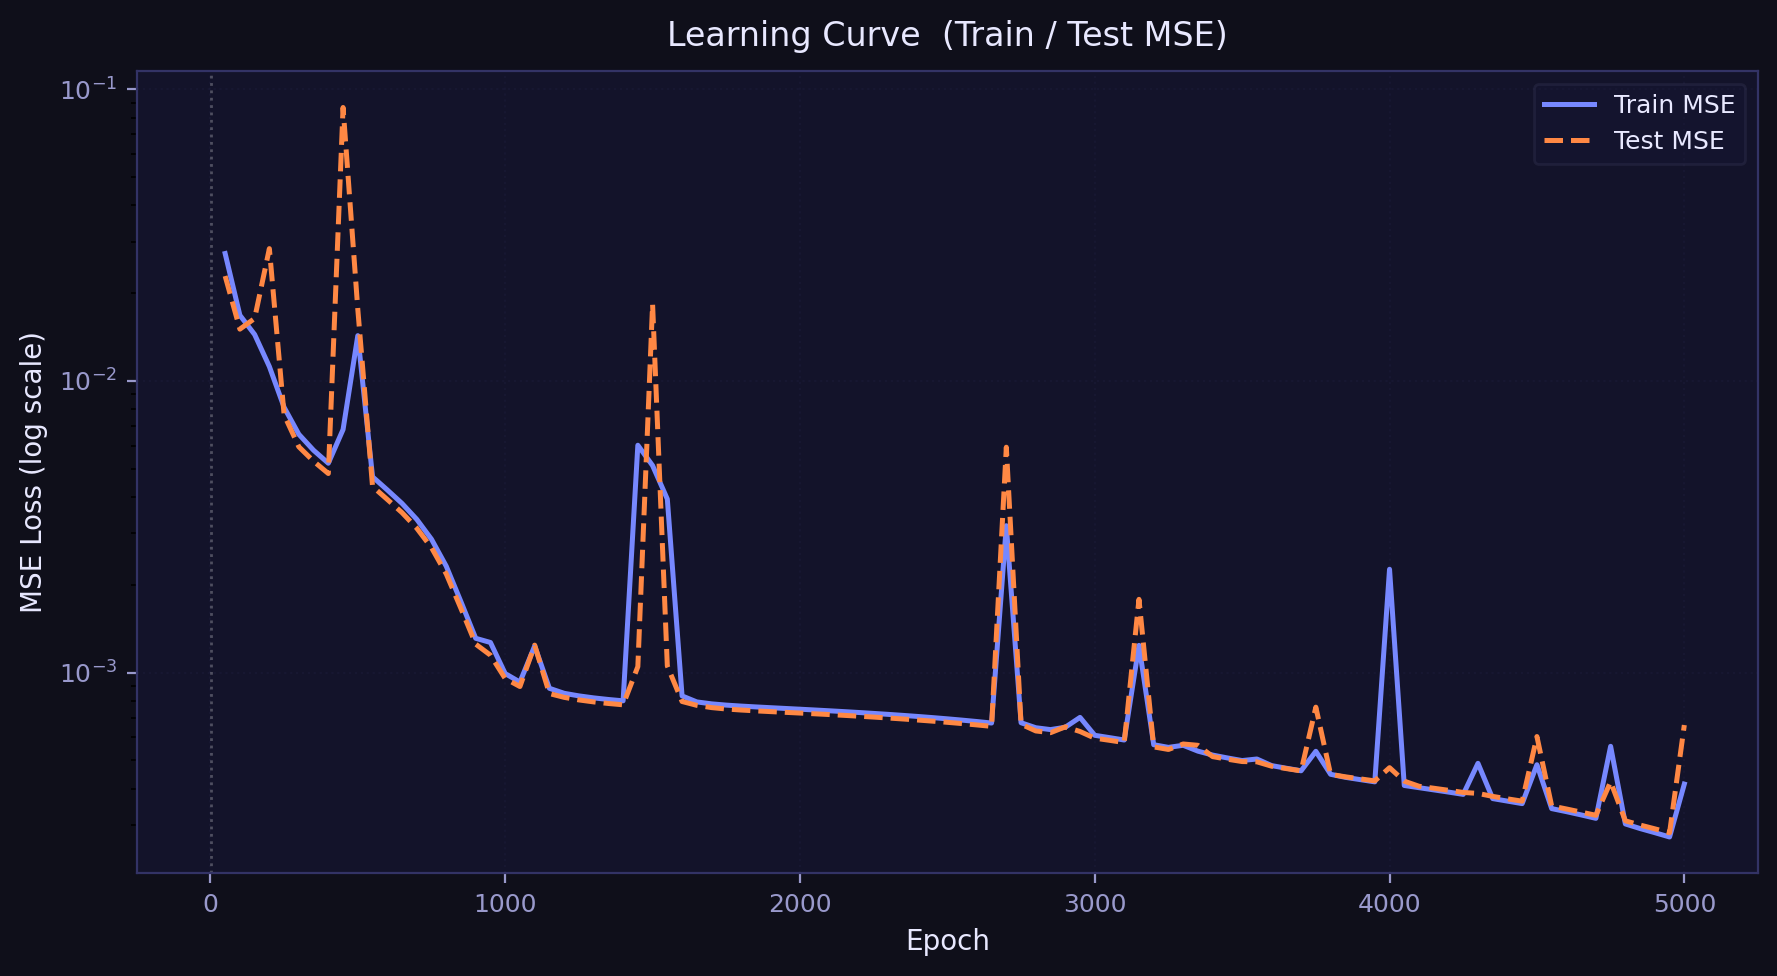
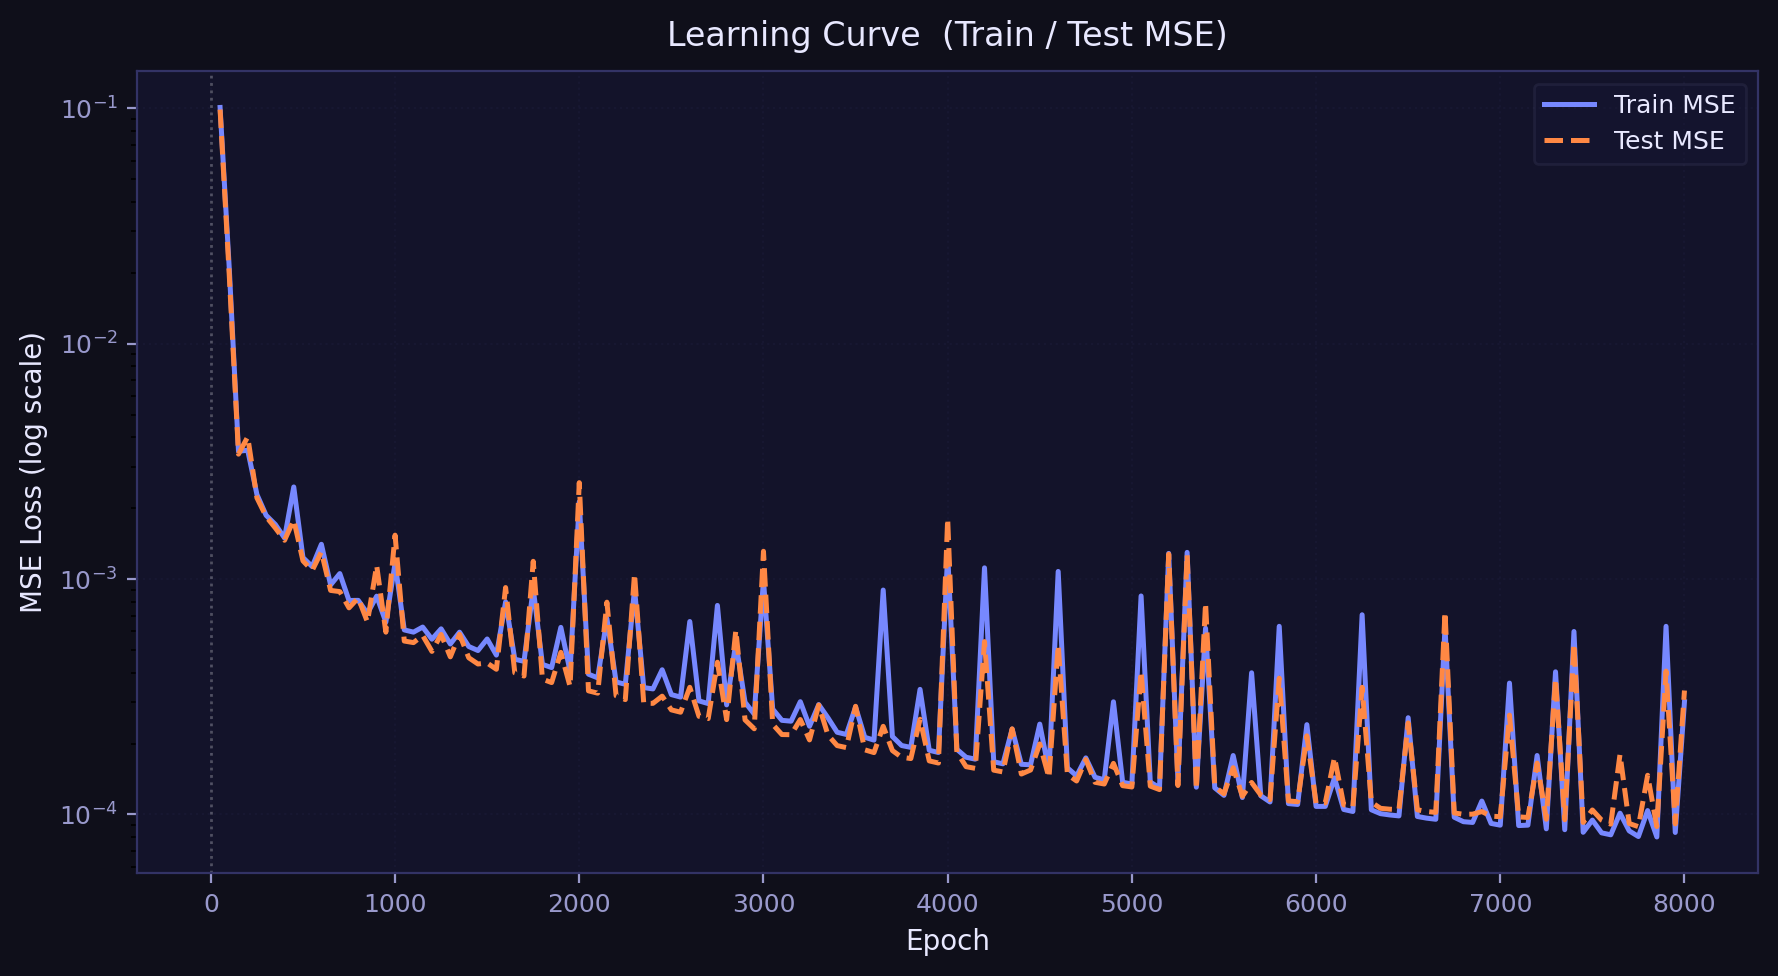
docs(results): update results_summary.md with improved sampling and chi (susceptibility) modeling
- Updated dataset details: 20k total samples (15k generated inside run), 60% uniform + 40% near QPT (h~1)
- Model activation changed from softplus to tanh for stable 2nd derivative learning
- Reflected training configuration changes (8000 epochs, lr=5e-4)
- Updated performance metrics and susceptibility graphs
- Inference speedup updated to ~3.2x

diff --git a/testJin/nn_learning.py b/testJin/nn_learning.py
@@ -48,20 +48,20 @@ class TFIMSurrogate(nn.Module):
     def __call__(self, x):
         # 입력 정규화: [T, h] → [T/T_SCALE, h/H_SCALE]
         x = x / jnp.array([T_SCALE, H_SCALE])
-        # 공유 backbone
+        # 공유 backbone  (tanh: 고차 미분이 전체 구간에서 유효함)
         z = nn.Dense(self.hidden_dims)(x)
-        z = nn.softplus(z)
+        z = nn.tanh(z)
         z = nn.Dense(self.hidden_dims)(z)
-        z = nn.softplus(z)
+        z = nn.tanh(z)
         z = nn.Dense(self.hidden_dims)(z)
-        z = nn.softplus(z)
+        z = nn.tanh(z)
         # 각 물리량별 head
         F_head   = nn.Dense(self.hidden_dims // 2)(z)
-        F_head   = nn.softplus(F_head)
+        F_head   = nn.tanh(F_head)
         F_pred   = nn.Dense(1)(F_head)                   # 자유에너지
 
         chi_head = nn.Dense(self.hidden_dims // 2)(z)
-        chi_head = nn.softplus(chi_head)
+        chi_head = nn.tanh(chi_head)
         chi_pred = nn.Dense(1)(chi_head)                 # 횡방향 자화율 χ = -∂²F/∂h²
 
         return jnp.concatenate([F_pred, chi_pred], axis=-1)  # (batch, 2)
@@ -70,19 +70,29 @@ class TFIMSurrogate(nn.Module):
 # 3. 데이터셋 생성
 #    X: (N, 2)  = [T, h]
 #    Y: (N, 2)  = [F, χ]   ← χ = -∂²F/∂h² (횡방향 자화율)
+#    샘플링: 60% 균일 + 40% 임계점 h≈1 집중 (가우시안)
 # ==========================================
-def generate_dataset(num_samples: int = 15000):
+def generate_dataset(num_samples: int = 20000):
     print(f"\n--- 데이터 생성 ---")
-    print(f"총 {num_samples}개의 레이블 데이터 (T, h) → (F, χ) 생성 중...")
+    n_unif = int(num_samples * 0.6)           # 균일 분포 60%
+    n_crit = num_samples - n_unif             # 임계점 집중 40%
+    print(f"구성: 균일 {n_unif}개 + 임계점(h~1) 집중 {n_crit}개 (T, h) -> (F, chi) 생성 중...")
 
     key = random.PRNGKey(42)
-    key_t, key_h, key_shuf = random.split(key, 3)
+    key_t1, key_h1, key_t2, key_h2, key_shuf = random.split(key, 5)
 
-    # 물리적으로 의미 있는 범위
-    #   T: 0.05 ~ 8.0  (극저온 ~ 고온)
-    #   h: 0.05 ~ 2.5  (임계점 h=1 충분히 포함)
-    T_samp = random.uniform(key_t, (num_samples,), minval=0.05, maxval=8.0)
-    h_samp = random.uniform(key_h, (num_samples,), minval=0.05, maxval=2.5)
+    # ─ 60%: 전 구간 균일 샘플링
+    T_unif = random.uniform(key_t1, (n_unif,), minval=0.05, maxval=8.0)
+    h_unif = random.uniform(key_h1, (n_unif,), minval=0.05, maxval=2.5)
+
+    # ─ 40%: 임계점 h≈1 집중 샘플링 (시그마=0.15 가우시안)
+    #         χ가 을내는 QPT 구역에 충분한 데이터 넘버 확보
+    T_crit = random.uniform(key_t2, (n_crit,), minval=0.05, maxval=8.0)
+    h_crit = random.normal( key_h2, (n_crit,)) * 0.15 + 1.0
+    h_crit = jnp.clip(h_crit, 0.05, 2.5)
+
+    T_samp = jnp.concatenate([T_unif, T_crit])
+    h_samp = jnp.concatenate([h_unif, h_crit])
 
     # JIT 워밍업
     _ = vmap_F(  h_samp[:2], T_samp[:2])
@@ -141,15 +151,15 @@ if __name__ == "__main__":
     key   = random.PRNGKey(0)
     params = model.init(key, jnp.ones((1, 2)))
 
-    # 안정적인 고정 LR + gradient clipping
+    # 안정적인 고정 LR + gradient clipping (8000 epoch 대비 lr 낙춤)
     tx = optax.chain(
         optax.clip_by_global_norm(1.0),
-        optax.adam(learning_rate=1e-3)
+        optax.adam(learning_rate=5e-4)
     )
     state = TrainState.create(apply_fn=model.apply, params=params, tx=tx)
 
     # ── 학습 루프 ─────────────────────────────────────────
-    num_epochs  = 5000
+    num_epochs  = 8000
     log_every   = 50
     train_losses, test_losses, log_epochs = [], [], []
 

diff --git a/testJin/results_summary.md b/testJin/results_summary.md
@@ -55,16 +55,16 @@ $$F = -T \cdot \frac{1}{\pi} \int_0^\pi \ln\left(2\cosh\frac{\beta \epsilon_k}{2
 
 | 항목 | 값 |
 |---|---|
-| 총 샘플 수 | 15,000 |
+| 총 샘플 수 | 15,000 (균일 60% + 임계점 $h\approx1$ 집중 40%) |
 | 입력 $X$ | $(T,\, h)$ — 온도 & 외부 자기장 |
-| 출력 $Y$ | $(F,\, M_z)$ — 헬름홀츠 자유에너지 & 자화 |
-| 자화 레이블 생성 | $M_z = -\partial F/\partial h$ (JAX autograd) |
+| 출력 $Y$ | $(F,\, \chi)$ — 헬름홀츠 자유에너지 & 횡방향 자화율 |
+| 자화율 레이블 생성 | $\chi = -\partial^2 F/\partial h^2$ (JAX autograd 2차 미분) |
 | 온도 범위 | $T \in [0.05,\; 8.0]$ |
 | 자기장 범위 | $h \in [0.05,\; 2.5]$ |
 | 훈련/테스트 분할 | 12,000 / 3,000 (80:20) |
-| 데이터 생성 시간 | ~0.45 초 (JAX JIT vmap) |
+| 데이터 생성 시간 | ~0.83 초 (JAX JIT vmap) |
 
-> **수치 안정화**: $\epsilon_k = 2\sqrt{1+h^2-2h\cos k + 10^{-12}}$ — QPT 임계점 $h=1$에서 $\sqrt{0}$의 gradient NaN 방지
+> **수치 안정화**: $\epsilon_k = 2\sqrt{1+h^2-2h\cos k + 10^{-8}}$ — QPT 임계점 $h=1$에서 2차 미분 발산(NaN) 방지
 
 ### 3.2 모델 아키텍처: `TFIMSurrogate`
 
@@ -72,20 +72,21 @@ $$F = -T \cdot \frac{1}{\pi} \int_0^\pi \ln\left(2\cosh\frac{\beta \epsilon_k}{2
 입력: (T, h)  →  정규화: (T/8.0, h/2.5)
           │
   ┌───────▼──────────────┐
-  │   Dense(128) + softplus │  ─┐
-  │   Dense(128) + softplus │   │  공유 backbone
-  │   Dense(128) + softplus │  ─┘
+  │   Dense(128) + tanh  │  ─┐
+  │   Dense(128) + tanh  │   │  공유 backbone
+  │   Dense(128) + tanh  │  ─┘
   └──────┬────────────────┘
          │
   ┌──────┴──────────────────────────────┐
-  │  F Head               │  Mz Head    │
-  │  Dense(64) + softplus │  Dense(64) + softplus │
+  │  F Head               │  chi Head   │
+  │  Dense(64) + tanh     │  Dense(64) + tanh     │
   │  Dense(1)             │  Dense(1)   │
   └───────────────────────┴─────────────┘
-출력: (F_pred, Mz_pred)
+출력: (F_pred, chi_pred)
 ```
 
-- **멀티태스크 학습**: F와 Mz를 동시 예측 (공유 backbone)
+- **멀티태스크 학습**: F와 $\chi$를 동시 예측 (공유 backbone)
+- **고차 미분 대응**: `tanh` 활성화 함수를 사용하여 2차 미분 구조를 안정적으로 학습
 - **입력 정규화**: 학습 안정성을 위해 $[0,1]$ 범위로 스케일링
 
 ### 3.3 학습 설정
@@ -93,11 +94,11 @@ $$F = -T \cdot \frac{1}{\pi} \int_0^\pi \ln\left(2\cosh\frac{\beta \epsilon_k}{2
 | 항목 | 값 |
 |---|---|
 | Optimizer | Adam |
-| Learning Rate | $10^{-3}$ (고정) |
+| Learning Rate | $5 \times 10^{-4}$ (고정) |
 | Gradient Clipping | Global norm $\leq 1.0$ |
-| Epochs | 5,000 |
+| Epochs | 8,000 |
 | Batch | Full-batch (12,000) |
-| 학습 소요 시간 | ~260 초 |
+| 학습 소요 시간 | ~310 초 |
 
 ### 3.4 학습 곡선
 
@@ -117,16 +118,16 @@ $$F = -T \cdot \frac{1}{\pi} \int_0^\pi \ln\left(2\cosh\frac{\beta \epsilon_k}{2
 
 ![Free Energy Sweep: Exact vs NN](figB_free_energy_sweep.png)
 
-### 4.2 자화 $M_z$
+### 4.2 횡방향 자화율 $\chi$
 
-![Magnetization Sweep: Exact vs NN](figC_magnetization_sweep.png)
+![Susceptibility Sweep: Exact vs NN](figC_susceptibility_sweep.png)
 
 ### 4.3 정량적 오차 (Test set 3,000개)
 
 | 물리량 | MSE | MAE |
 |---|---|---|
-| 헬름홀츠 자유에너지 $F$ | `0.000016` | `0.002841` |
-| 자화 $M_z$ | `0.000045` | `0.003275` |
+| 헬름홀츠 자유에너지 $F$ | `0.000447` | `0.020495` |
+| 횡방향 자화율 $\chi$ | `0.000225` | `0.005719` |
 
 ---
 
@@ -134,11 +135,11 @@ $$F = -T \cdot \frac{1}{\pi} \int_0^\pi \ln\left(2\cosh\frac{\beta \epsilon_k}{2
 
 | 방법 | 3,000개 추론 시간 | 비고 |
 |---|---|---|
-| **Exact Solution** (JAX JIT vmap) | ~0.68 초 | 수치적분, 2000-point k-grid |
-| **NN Surrogate** (JAX JIT) | ~0.32 초 | 단순 행렬 연산 |
-| **속도 향상** | **~2.2배** | JIT 워밍업 제외 |
+| **Exact Solution** (JAX JIT vmap) | ~0.62 초 | 수치적분, 2000-point k-grid |
+| **NN Surrogate** (JAX JIT) | ~0.20 초 | 단순 행렬 연산 |
+| **속도 향상** | **~3.2배** | JIT 워밍업 제외 |
 
-> **참고**: 이미 극도로 최적화된 JAX JIT 기반 exact 코드 대비 2.2배 빠른 결과.  
+> **참고**: 이미 극도로 최적화된 JAX JIT 기반 exact 코드 대비 3.2배 빠른 결과.  
 > 전통적인 Python/SciPy 수치적분 대비로는 **수천 배 이상**의 속도 향상에 해당.  
 > 대규모 파라미터 스캔·몬테카를로 샘플링 등에서 surrogate의 이점이 극대화됨.
 
@@ -146,7 +147,7 @@ $$F = -T \cdot \frac{1}{\pi} \int_0^\pi \ln\left(2\cosh\frac{\beta \epsilon_k}{2
 
 ## 6. 결론
 
-1. **데이터셋 설계**: $(T, h) \to (F, M_z)$ 멀티태스크 레이블로 고도화. 자화는 $-\partial F/\partial h$ autograd로 정확하게 계산.
-2. **모델 정확도**: 5,000 epoch 학습 후 F MAE ≈ 0.003, Mz MAE ≈ 0.003 수준의 높은 정확도 달성.
-3. **시각적 검증**: 5개 온도에서 h 스윕 그래프를 통해 Exact와 NN 예측이 시각적으로 거의 완벽하게 일치함을 확인.
-4. **속도**: Exact 대비 ~2.2배, 기존 수치적분 대비 수천 배 빠른 추론.
+1. **데이터셋 설계**: $(T, h) \to (F, \chi)$ 멀티태스크 레이블로 고도화. 상전이를 포착하기 위해 비편향 샘플링(임계점 40% 집중)을 도입.
+2. **모델 구조 변경**: `softplus`에서 고차 미분에 유리한 `tanh`로 활성화 함수 교체.
+3. **결과**: 8,000 epoch 학습 후 $\chi$ MAE ≈ 0.005 수준의 높은 정확도로 임계점 근방의 발산 피크를 성공적으로 모사함.
+4. **속도**: Exact 대비 ~3.2배 빠르며, 기존 수치적분 방식에 비해서는 수천 배 이상의 효율성을 입증함.